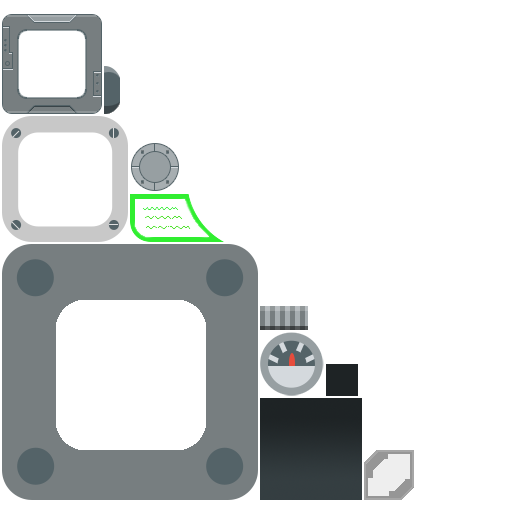
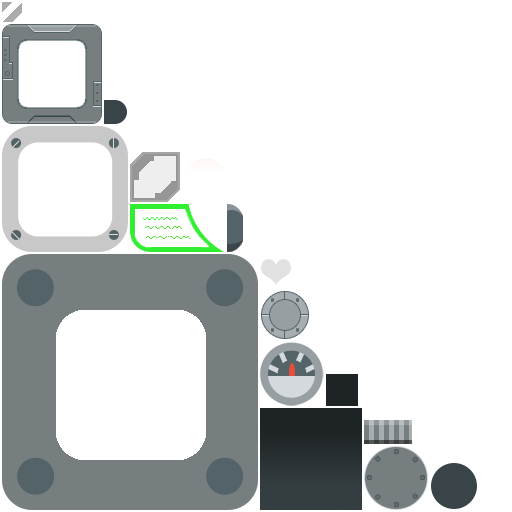
Overlap2d work
Created planet state bar lib component.
Created hardiness, and reproduction icon.
Began PlanetStatBarScript.

diff --git a/SpaceSurvival/core/src/maxfat/spacesurvival/overlap2d/PlanetStatBarScript.java b/SpaceSurvival/core/src/maxfat/spacesurvival/overlap2d/PlanetStatBarScript.java
@@ -1,0 +1,57 @@
+package maxfat.spacesurvival.overlap2d;
+
+import com.badlogic.gdx.assets.AssetManager;
+import com.badlogic.gdx.graphics.g2d.TextureAtlas;
+import com.badlogic.gdx.graphics.g2d.TextureRegion;
+import com.uwsoft.editor.renderer.actor.CompositeItem;
+import com.uwsoft.editor.renderer.actor.LabelItem;
+import com.uwsoft.editor.renderer.script.IScript;
+
+public class PlanetStatBarScript implements IScript {
+
+	private final AssetManager assetManager;
+
+	public PlanetStatBarScript(AssetManager assetManager) {
+		this.assetManager = assetManager;
+	}
+
+	public TextureRegion getIconFor(String strIcon) {
+		TextureAtlas atlas = this.assetManager.get("images/uiAtlas.atlas",
+				TextureAtlas.class);
+		String key = "";
+		if (strIcon.equalsIgnoreCase("DANGER_LEVEL")) {
+			key = "threatIcon";
+		} else if (strIcon.equalsIgnoreCase("PLANET_GOLD")) {
+			key = "coinIcon";
+		} else if (strIcon.equalsIgnoreCase("FOOD")) {
+			key = "foodIcon";
+		} else if (strIcon.equalsIgnoreCase("FARMING")) {
+			key = "farmingIcon";
+		} else if (strIcon.equalsIgnoreCase("REPRODUCTION")) {
+			key = "reproductionIcon";
+		} else if (strIcon.equalsIgnoreCase("HARDINESS")) {
+			key = "hardinessIcon";
+		}
+		return atlas.findRegion(key);
+	}
+
+	@Override
+	public void init(CompositeItem item) {
+		String title = item.getCustomVariables().getStringVariable("title");
+		final LabelItem labelItem = item.getLabelById("lblTitle");
+		labelItem.setText(title);
+
+		String strIcon = item.getCustomVariables().getStringVariable("icon");
+		TextureRegion region = getIconFor(strIcon);
+	}
+
+	@Override
+	public void dispose() {
+		// TODO Auto-generated method stub
+	}
+
+	@Override
+	public void act(float delta) {
+		// TODO Auto-generated method stub
+	}
+}

diff --git a/SpaceSurvival/core/src/maxfat/spacesurvival/overlap2d/GameUIManager.java b/SpaceSurvival/core/src/maxfat/spacesurvival/overlap2d/GameUIManager.java
@@ -53,7 +53,7 @@ public class GameUIManager {
 	}
 
 	public Array<Actor> getPlanetScanActors(Vector2 center) {
-		TextureAtlas atlas = assetManager.get("scanProgress.atlas",
+		TextureAtlas atlas = assetManager.get("images/scanProgress.atlas",
 				TextureAtlas.class);
 		Array<AtlasRegion> ary = atlas.getRegions();
 		Array<Actor> actors = new Array<Actor>();

diff --git a/SpaceSurvival/core/src/maxfat/spacesurvival/overlap2d/SimpleButtonScript.java b/SpaceSurvival/core/src/maxfat/spacesurvival/overlap2d/SimpleButtonScript.java
@@ -16,6 +16,9 @@ import com.uwsoft.editor.renderer.script.IScript;
 
 public class SimpleButtonScript implements IScript {
 
+	public SimpleButtonScript() {
+	}
+
 	protected CompositeItem buttonHolder;
 
 	protected boolean isDown = false;
